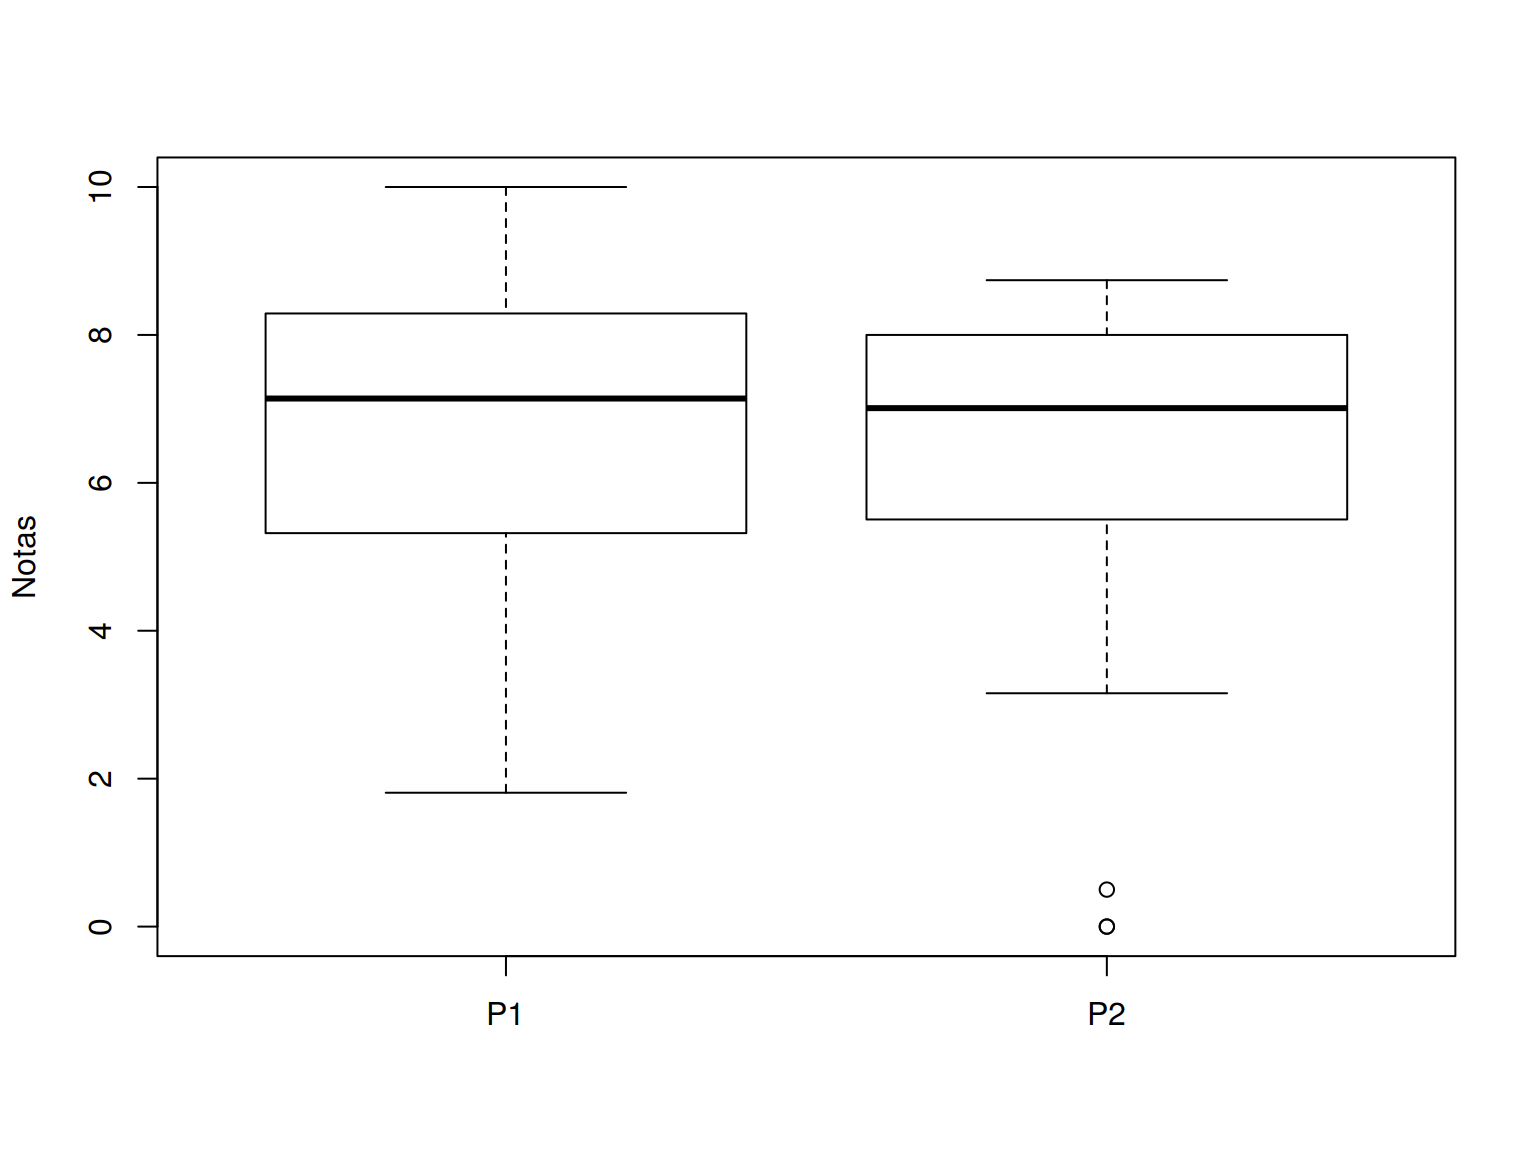
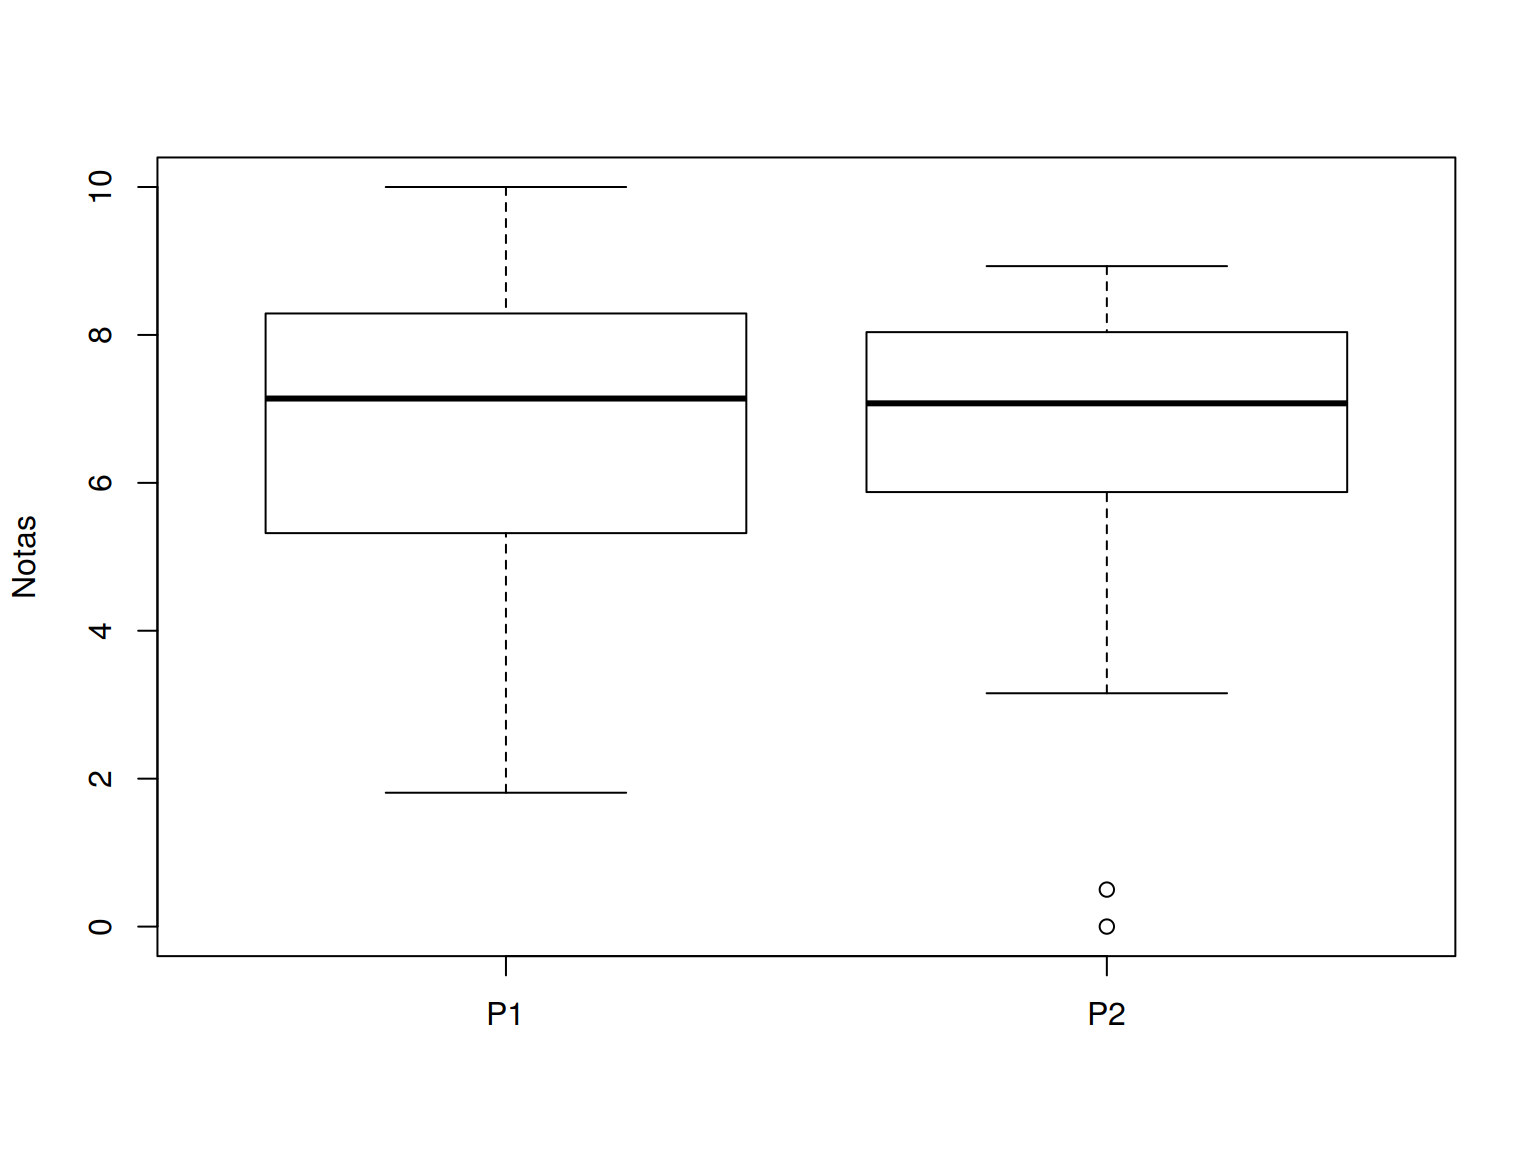
Atualiza nota

diff --git a/04_Entrada_de_dados.html b/04_Entrada_de_dados.html
@@ -679,39 +679,23 @@ str(dados.xls)</code></pre>
 <p>Para carregar conjuntos de dados que são disponibilizados com o R, use o comando <code>data()</code>. Por exemplo, abaixo mostramos como carregar o conjunto <code>mtcars</code> que está no pacote <strong>datasets</strong>.</p>
 <pre class="r"><code>## Objetos criados até o momento nesta seção
 ls()</code></pre>
-<pre><code> [1] &quot;breaks&quot;       &quot;cara&quot;         &quot;caracter&quot;     &quot;civ.inst.tb&quot; 
- [5] &quot;civil.tb&quot;     &quot;cont&quot;         &quot;da&quot;           &quot;da2&quot;         
- [9] &quot;dados&quot;        &quot;dados.clip&quot;   &quot;dados.xls&quot;    &quot;dados2&quot;      
-[13] &quot;fator&quot;        &quot;filhos.qt&quot;    &quot;filhos.tb&quot;    &quot;filhos.tba&quot;  
-[17] &quot;filhos.tbr&quot;   &quot;idade.cut&quot;    &quot;idade.cut2&quot;   &quot;ind&quot;         
-[21] &quot;inst.sal.tb&quot;  &quot;inst.tb&quot;      &quot;iris&quot;         &quot;la&quot;          
-[25] &quot;lis&quot;          &quot;lista&quot;        &quot;logico&quot;       &quot;m&quot;           
-[29] &quot;ma&quot;           &quot;mat&quot;          &quot;matriz&quot;       &quot;matriz2&quot;     
-[33] &quot;milsa&quot;        &quot;mtcars&quot;       &quot;notas&quot;        &quot;notas.all&quot;   
-[37] &quot;notas.col&quot;    &quot;num&quot;          &quot;ola.mundo&quot;    &quot;perd&quot;        
-[41] &quot;salario.cut&quot;  &quot;salario.cut2&quot; &quot;salario.hist&quot; &quot;salario.qt&quot;  
-[45] &quot;salario.tb&quot;   &quot;statm&quot;        &quot;texto&quot;        &quot;topo&quot;        
-[49] &quot;url&quot;          &quot;w&quot;            &quot;x&quot;            &quot;xf&quot;          
-[53] &quot;y&quot;            &quot;z&quot;           </code></pre>
+<pre><code> [1] &quot;cara&quot;       &quot;caracter&quot;   &quot;cont&quot;       &quot;da&quot;         &quot;dados&quot;     
+ [6] &quot;dados.clip&quot; &quot;dados.xls&quot;  &quot;dados2&quot;     &quot;fator&quot;      &quot;ind&quot;       
+[11] &quot;lis&quot;        &quot;lista&quot;      &quot;logico&quot;     &quot;m&quot;          &quot;mat&quot;       
+[16] &quot;matriz&quot;     &quot;matriz2&quot;    &quot;num&quot;        &quot;ola.mundo&quot;  &quot;perd&quot;      
+[21] &quot;texto&quot;      &quot;w&quot;          &quot;x&quot;          &quot;xf&quot;         &quot;y&quot;         
+[26] &quot;z&quot;         </code></pre>
 <pre class="r"><code>## Carregaga a base de dados mtcars
 data(mtcars)
 ## Note como agora o objeto mtcars fica disponível na sua área de
 ## trabalho
 ls()</code></pre>
-<pre><code> [1] &quot;breaks&quot;       &quot;cara&quot;         &quot;caracter&quot;     &quot;civ.inst.tb&quot; 
- [5] &quot;civil.tb&quot;     &quot;cont&quot;         &quot;da&quot;           &quot;da2&quot;         
- [9] &quot;dados&quot;        &quot;dados.clip&quot;   &quot;dados.xls&quot;    &quot;dados2&quot;      
-[13] &quot;fator&quot;        &quot;filhos.qt&quot;    &quot;filhos.tb&quot;    &quot;filhos.tba&quot;  
-[17] &quot;filhos.tbr&quot;   &quot;idade.cut&quot;    &quot;idade.cut2&quot;   &quot;ind&quot;         
-[21] &quot;inst.sal.tb&quot;  &quot;inst.tb&quot;      &quot;iris&quot;         &quot;la&quot;          
-[25] &quot;lis&quot;          &quot;lista&quot;        &quot;logico&quot;       &quot;m&quot;           
-[29] &quot;ma&quot;           &quot;mat&quot;          &quot;matriz&quot;       &quot;matriz2&quot;     
-[33] &quot;milsa&quot;        &quot;mtcars&quot;       &quot;notas&quot;        &quot;notas.all&quot;   
-[37] &quot;notas.col&quot;    &quot;num&quot;          &quot;ola.mundo&quot;    &quot;perd&quot;        
-[41] &quot;salario.cut&quot;  &quot;salario.cut2&quot; &quot;salario.hist&quot; &quot;salario.qt&quot;  
-[45] &quot;salario.tb&quot;   &quot;statm&quot;        &quot;texto&quot;        &quot;topo&quot;        
-[49] &quot;url&quot;          &quot;w&quot;            &quot;x&quot;            &quot;xf&quot;          
-[53] &quot;y&quot;            &quot;z&quot;           </code></pre>
+<pre><code> [1] &quot;cara&quot;       &quot;caracter&quot;   &quot;cont&quot;       &quot;da&quot;         &quot;dados&quot;     
+ [6] &quot;dados.clip&quot; &quot;dados.xls&quot;  &quot;dados2&quot;     &quot;fator&quot;      &quot;ind&quot;       
+[11] &quot;lis&quot;        &quot;lista&quot;      &quot;logico&quot;     &quot;m&quot;          &quot;mat&quot;       
+[16] &quot;matriz&quot;     &quot;matriz2&quot;    &quot;mtcars&quot;     &quot;num&quot;        &quot;ola.mundo&quot; 
+[21] &quot;perd&quot;       &quot;texto&quot;      &quot;w&quot;          &quot;x&quot;          &quot;xf&quot;        
+[26] &quot;y&quot;          &quot;z&quot;         </code></pre>
 <pre class="r"><code>## Estrutura e visualização do objeto
 str(mtcars)</code></pre>
 <pre><code>&#39;data.frame&#39;:   32 obs. of  11 variables:
@@ -742,20 +726,12 @@ Valiant           18.1   6  225 105 2.76 3.460 20.22  1  0    3    1</code></pre
 <p>e agora podemos carregar o objeto <code>topo</code> com</p>
 <pre class="r"><code>data(topo)
 ls()</code></pre>
-<pre><code> [1] &quot;breaks&quot;       &quot;cara&quot;         &quot;caracter&quot;     &quot;civ.inst.tb&quot; 
- [5] &quot;civil.tb&quot;     &quot;cont&quot;         &quot;da&quot;           &quot;da2&quot;         
- [9] &quot;dados&quot;        &quot;dados.clip&quot;   &quot;dados.xls&quot;    &quot;dados2&quot;      
-[13] &quot;fator&quot;        &quot;filhos.qt&quot;    &quot;filhos.tb&quot;    &quot;filhos.tba&quot;  
-[17] &quot;filhos.tbr&quot;   &quot;idade.cut&quot;    &quot;idade.cut2&quot;   &quot;ind&quot;         
-[21] &quot;inst.sal.tb&quot;  &quot;inst.tb&quot;      &quot;iris&quot;         &quot;la&quot;          
-[25] &quot;lis&quot;          &quot;lista&quot;        &quot;logico&quot;       &quot;m&quot;           
-[29] &quot;ma&quot;           &quot;mat&quot;          &quot;matriz&quot;       &quot;matriz2&quot;     
-[33] &quot;milsa&quot;        &quot;mtcars&quot;       &quot;notas&quot;        &quot;notas.all&quot;   
-[37] &quot;notas.col&quot;    &quot;num&quot;          &quot;ola.mundo&quot;    &quot;perd&quot;        
-[41] &quot;salario.cut&quot;  &quot;salario.cut2&quot; &quot;salario.hist&quot; &quot;salario.qt&quot;  
-[45] &quot;salario.tb&quot;   &quot;statm&quot;        &quot;texto&quot;        &quot;topo&quot;        
-[49] &quot;url&quot;          &quot;w&quot;            &quot;x&quot;            &quot;xf&quot;          
-[53] &quot;y&quot;            &quot;z&quot;           </code></pre>
+<pre><code> [1] &quot;cara&quot;       &quot;caracter&quot;   &quot;cont&quot;       &quot;da&quot;         &quot;dados&quot;     
+ [6] &quot;dados.clip&quot; &quot;dados.xls&quot;  &quot;dados2&quot;     &quot;fator&quot;      &quot;ind&quot;       
+[11] &quot;lis&quot;        &quot;lista&quot;      &quot;logico&quot;     &quot;m&quot;          &quot;mat&quot;       
+[16] &quot;matriz&quot;     &quot;matriz2&quot;    &quot;mtcars&quot;     &quot;num&quot;        &quot;ola.mundo&quot; 
+[21] &quot;perd&quot;       &quot;texto&quot;      &quot;topo&quot;       &quot;w&quot;          &quot;x&quot;         
+[26] &quot;xf&quot;         &quot;y&quot;          &quot;z&quot;         </code></pre>
 <pre class="r"><code>str(topo)</code></pre>
 <pre><code>&#39;data.frame&#39;:   52 obs. of  3 variables:
  $ x: num  0.3 1.4 2.4 3.6 5.7 1.6 2.9 3.4 3.4 4.8 ...

diff --git a/00_ce083-intro.html b/00_ce083-intro.html
@@ -452,20 +452,7 @@ code > span.in { color: #60a0b0; font-weight: bold; font-style: italic; } /* Inf
 <p><img src="img/script-assign.png" width="400px" /></p>
 <p>Para saber quais objetos estão criados, usamos a <strong>função</strong> <code>ls()</code></p>
 <div class="sourceCode"><pre class="sourceCode r"><code class="sourceCode r">&gt;<span class="st"> </span><span class="kw">ls</span>()</code></pre></div>
-<pre><code> [1] &quot;breaks&quot;       &quot;cara&quot;         &quot;caracter&quot;     &quot;civ.inst.tb&quot; 
- [5] &quot;civil.tb&quot;     &quot;cont&quot;         &quot;da&quot;           &quot;da2&quot;         
- [9] &quot;dados&quot;        &quot;dados.clip&quot;   &quot;dados.xls&quot;    &quot;dados2&quot;      
-[13] &quot;fator&quot;        &quot;filhos.qt&quot;    &quot;filhos.tb&quot;    &quot;filhos.tba&quot;  
-[17] &quot;filhos.tbr&quot;   &quot;idade.cut&quot;    &quot;idade.cut2&quot;   &quot;ind&quot;         
-[21] &quot;inst.sal.tb&quot;  &quot;inst.tb&quot;      &quot;iris&quot;         &quot;la&quot;          
-[25] &quot;lis&quot;          &quot;lista&quot;        &quot;logico&quot;       &quot;m&quot;           
-[29] &quot;ma&quot;           &quot;mat&quot;          &quot;matriz&quot;       &quot;matriz2&quot;     
-[33] &quot;milsa&quot;        &quot;mtcars&quot;       &quot;notas&quot;        &quot;notas.all&quot;   
-[37] &quot;notas.col&quot;    &quot;num&quot;          &quot;ola.mundo&quot;    &quot;perd&quot;        
-[41] &quot;salario.cut&quot;  &quot;salario.cut2&quot; &quot;salario.hist&quot; &quot;salario.qt&quot;  
-[45] &quot;salario.tb&quot;   &quot;statm&quot;        &quot;texto&quot;        &quot;topo&quot;        
-[49] &quot;url&quot;          &quot;w&quot;            &quot;x&quot;            &quot;xf&quot;          
-[53] &quot;y&quot;            &quot;z&quot;           </code></pre>
+<pre><code>[1] &quot;x&quot; &quot;y&quot;</code></pre>
 </section>
 <section id="salvando-resultados-2" class="slide level1">
 <h1>“Salvando” resultados</h1>

diff --git a/notas.html b/notas.html
@@ -317,7 +317,7 @@ hist(notas.all, breaks = breaks, right = FALSE, include.lowest = TRUE,
 }
 round(statm(notas.all), 2)</code></pre>
 <pre><code>  Min    Q1    Q2    Q3   Max Média     s   NAs 
- 0.00  5.29  7.10  8.00 10.00  6.55  2.37 30.00 </code></pre>
+ 0.00  5.54  7.12  8.07 10.00  6.65  2.27 30.00 </code></pre>
 </div>
 <div id="resumos-por-prova" class="section level2">
 <h2>Resumos por prova</h2>
@@ -329,12 +329,12 @@ boxplot(notas[, notas.col], ylim = c(0, 10), ylab = &quot;Notas&quot;)</code></p
 <pre class="r"><code>round(apply(notas[, notas.col, drop = FALSE], 2, statm), 2)</code></pre>
 <pre><code>         P1    P2
 Min    1.81  0.00
-Q1     5.32  5.50
-Q2     7.14  7.01
-Q3     8.29  8.00
-Max   10.00  8.74
-Média  6.71  6.37
-s      2.45  2.31
+Q1     5.32  5.88
+Q2     7.14  7.08
+Q3     8.29  8.04
+Max   10.00  8.93
+Média  6.71  6.60
+s      2.45  2.09
 NAs   13.00 17.00</code></pre>
 </div>
 <div id="notas-individuais" class="section level2">
@@ -594,7 +594,7 @@ NAs   13.00 17.00</code></pre>
 <tr class="odd">
 <td align="center">20160238</td>
 <td align="center">8.69</td>
-<td align="center">0.00</td>
+<td align="center">8.93</td>
 </tr>
 <tr class="even">
 <td align="center">20160239</td>
